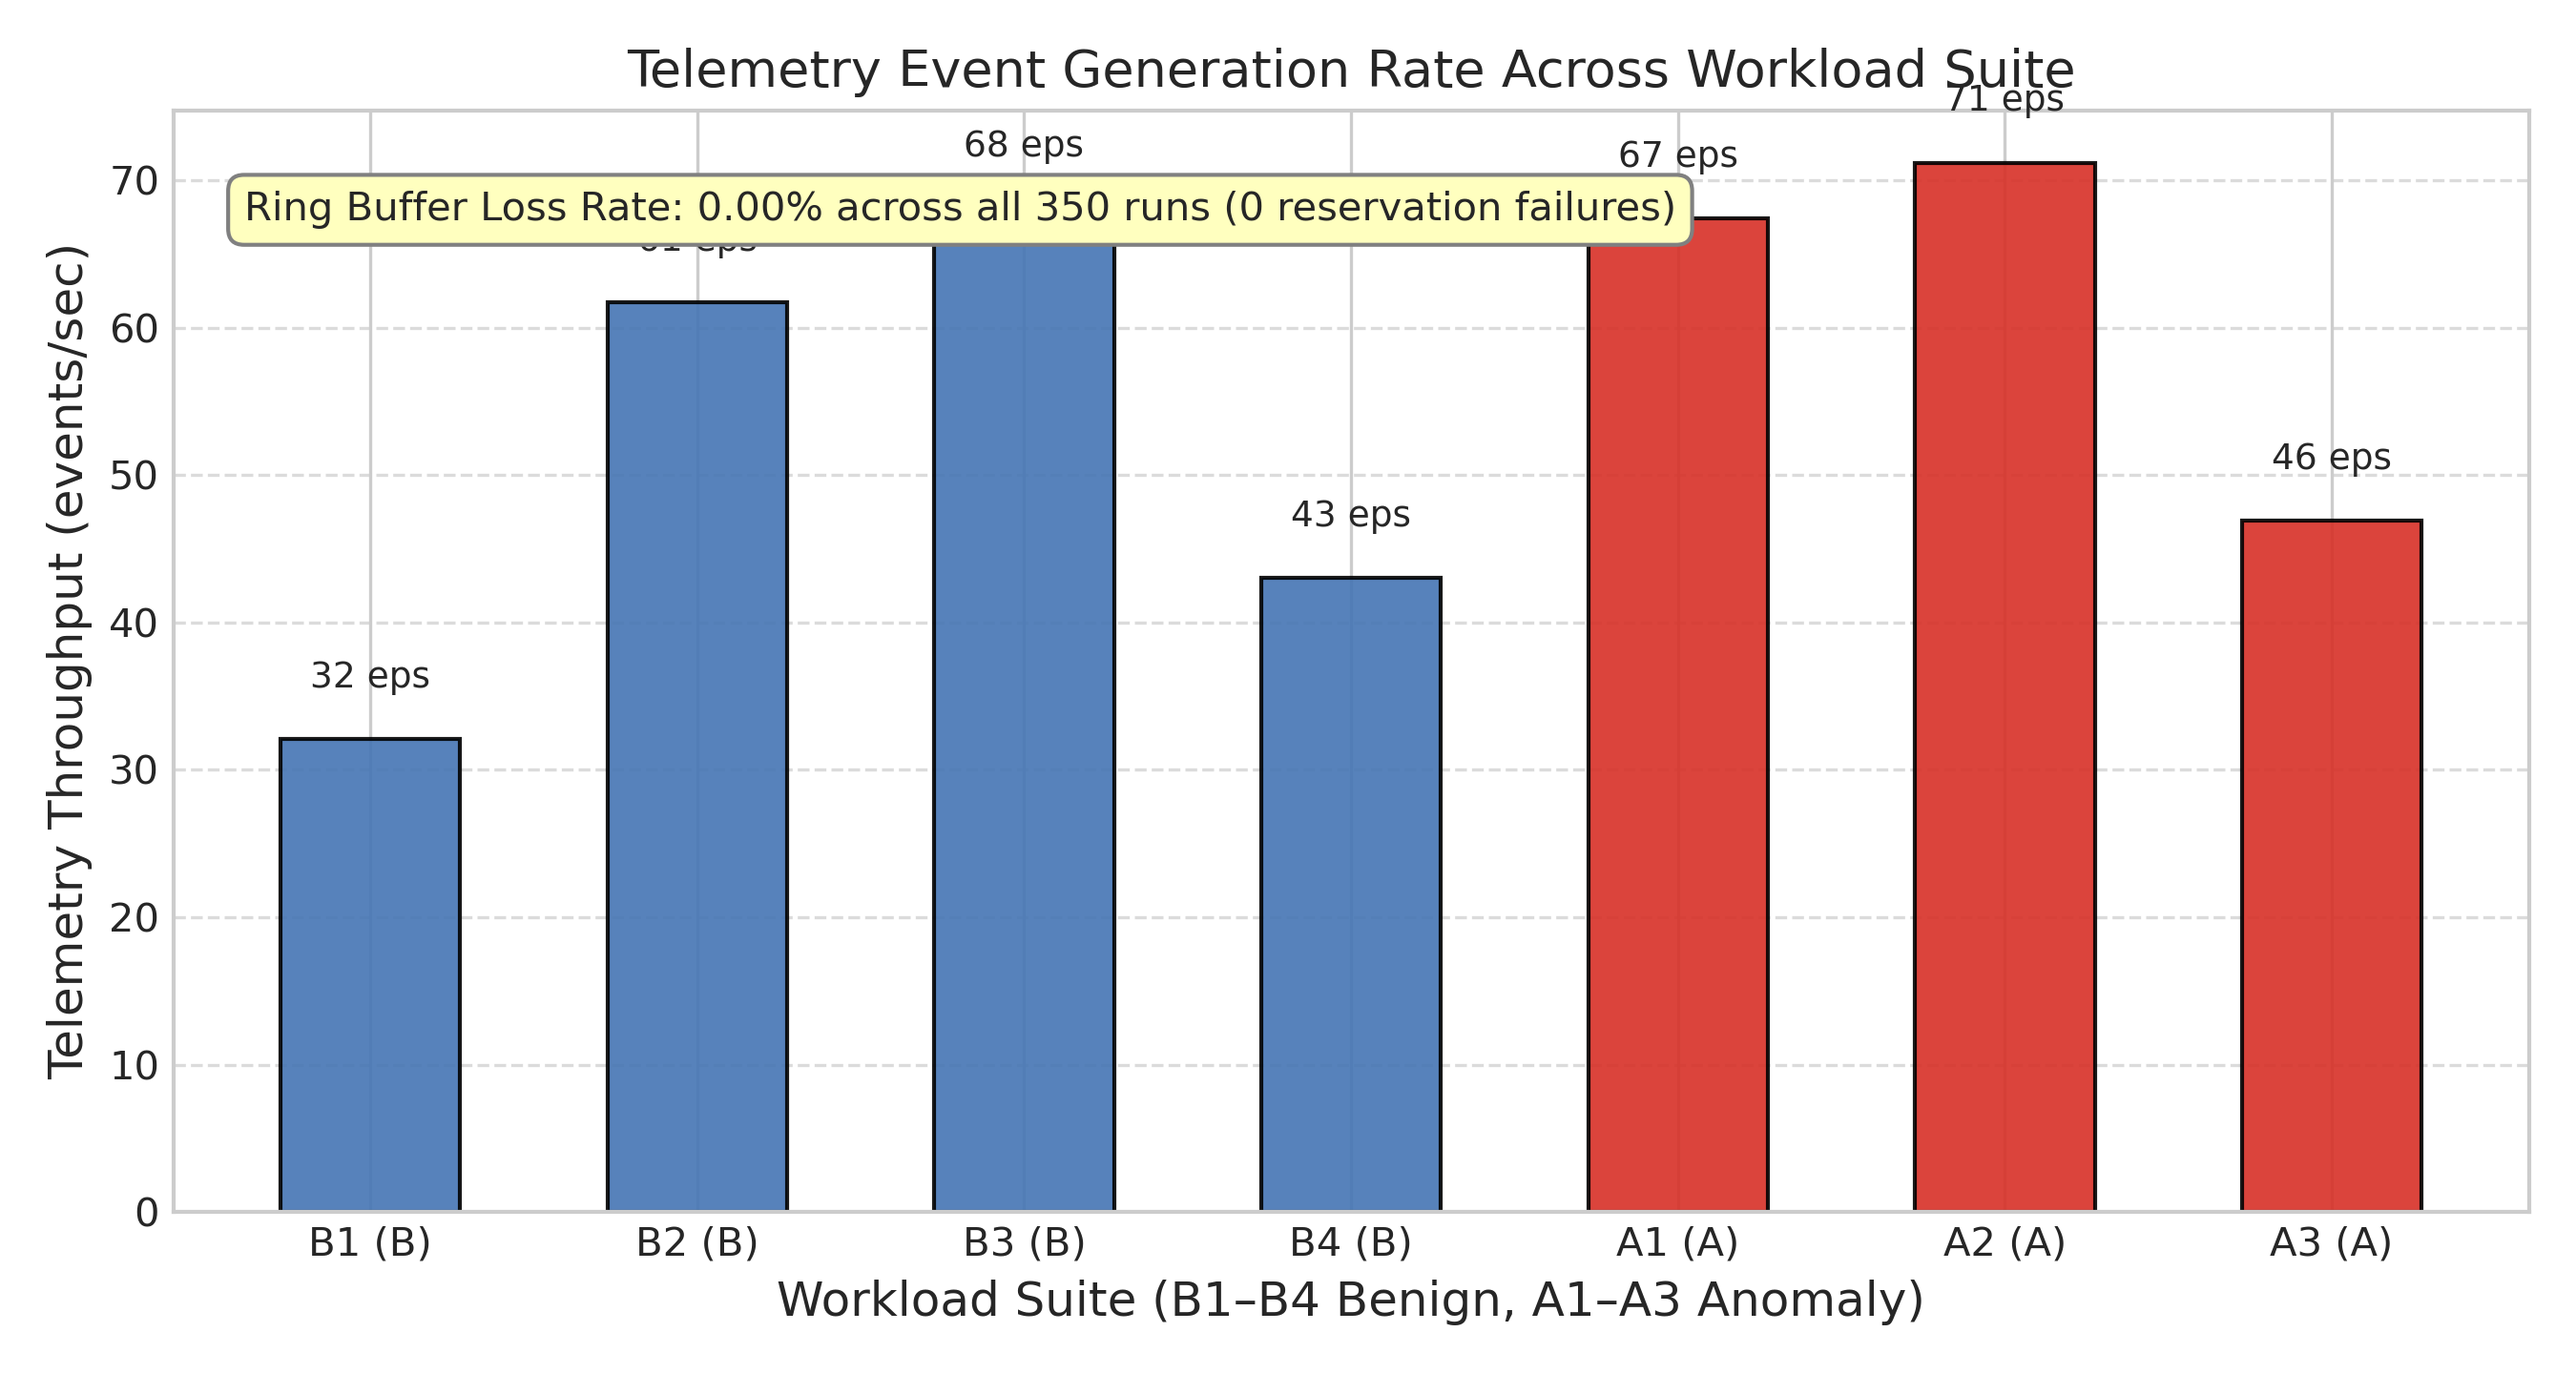
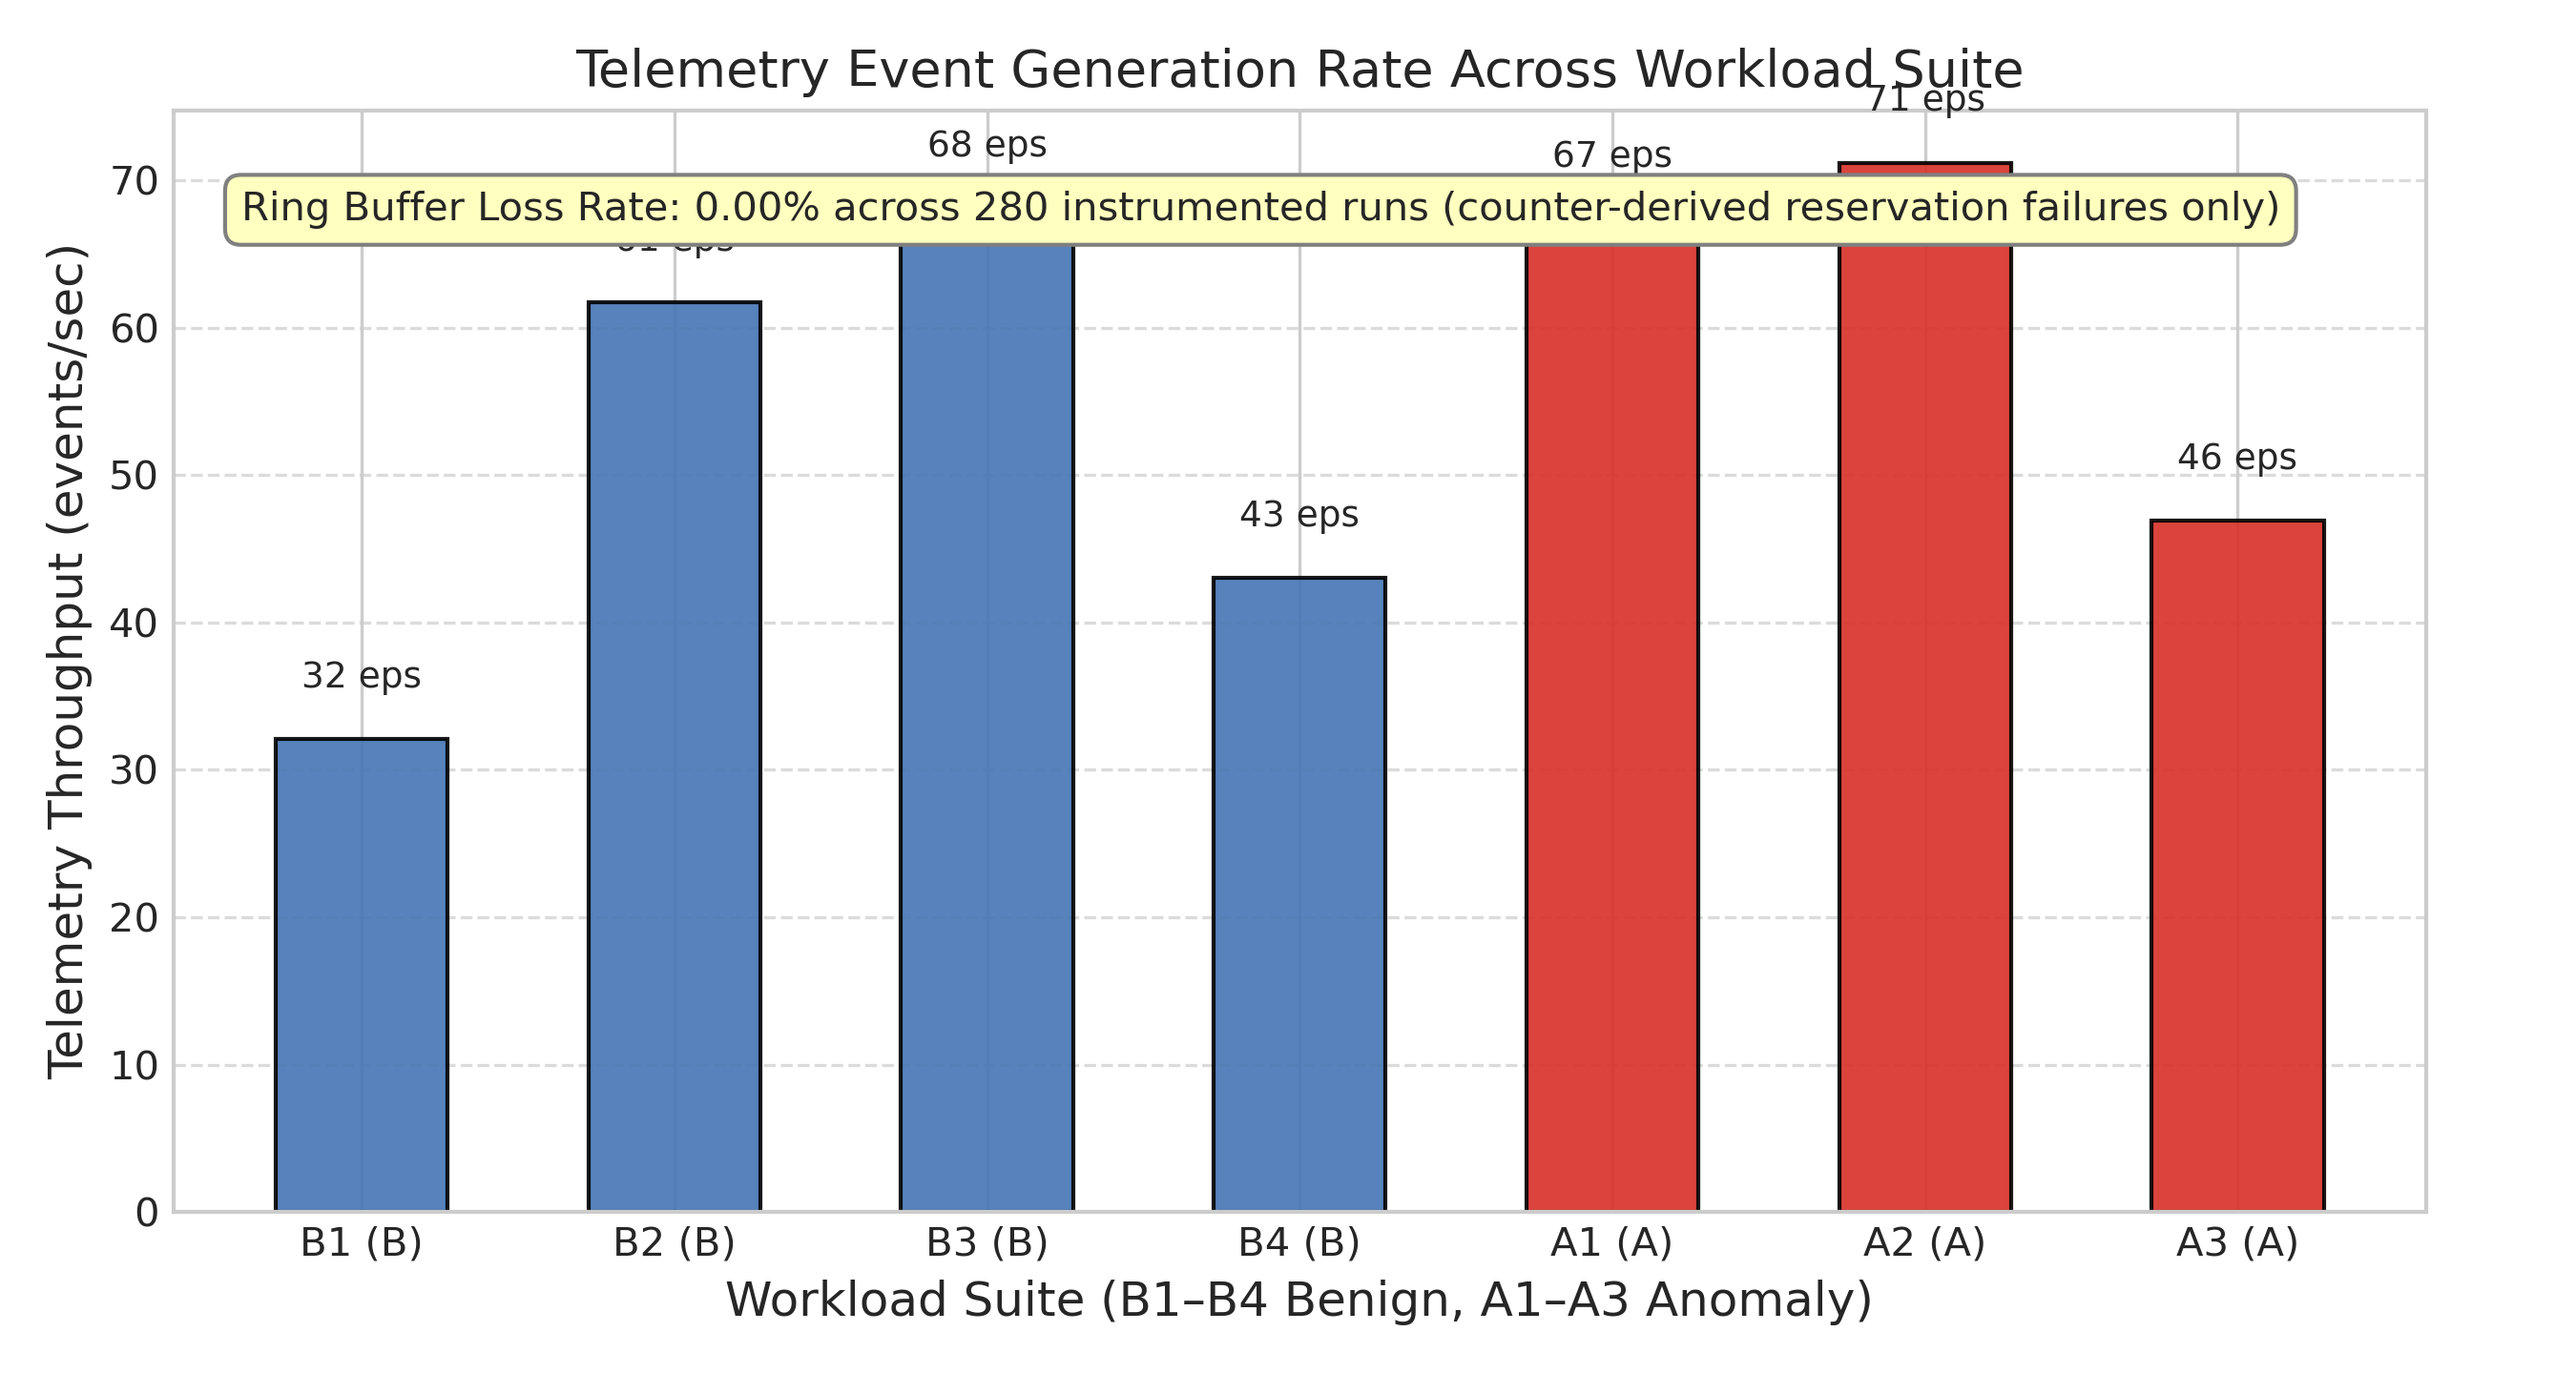
Fix telemetry loader, experiments harness, and plot annotation

diff --git a/experiments/scripts/run_experiments.py b/experiments/scripts/run_experiments.py
@@ -12,8 +12,10 @@ from __future__ import annotations
 import argparse
 import datetime
 import json
+import multiprocessing
 import os
 import resource
+import select
 import signal
 import subprocess
 import sys
@@ -31,13 +33,35 @@ from prototype.python.workloads import WORKLOADS
 
 SCALE_FP = 65536
 
-def get_cpu_mem():
+def get_cpu_times():
     ru = resource.getrusage(resource.RUSAGE_CHILDREN)
     ru_self = resource.getrusage(resource.RUSAGE_SELF)
     user_time = ru.ru_utime + ru_self.ru_utime
     sys_time = ru.ru_stime + ru_self.ru_stime
-    max_rss_kb = max(ru.ru_maxrss, ru_self.ru_maxrss)
-    return user_time, sys_time, max_rss_kb
+    return user_time, sys_time
+
+def get_proc_vmhwm_kb(pid: int | str) -> float | None:
+    """Read VmHWM (Peak Resident Set Size) in kB from /proc/<pid>/status."""
+    try:
+        with open(f"/proc/{pid}/status", "r", encoding="utf-8") as f:
+            for line in f:
+                if line.startswith("VmHWM:"):
+                    parts = line.split()
+                    if len(parts) >= 2:
+                        return float(parts[1])
+    except Exception:
+        pass
+    return None
+
+def _workload_runner(workload_id: str, duration: float, rep_idx: int, q: multiprocessing.Queue):
+    wl_fn = WORKLOADS[workload_id]
+    if workload_id == "B2":
+        wl_fn(duration, seed=rep_idx)
+    else:
+        wl_fn(duration)
+    # Read VmHWM from /proc/self/status before child exits
+    hwm = get_proc_vmhwm_kb("self")
+    q.put(hwm)
 
 def score_kernel_fixed_point(artifact, row):
     weights_q16 = artifact["weights_q16"]
@@ -81,18 +105,44 @@ def run_single_experiment(
         
     loader_proc = None
     t0_start = time.perf_counter()
-    u0, s0, rss0 = get_cpu_mem()
+    u0, s0 = get_cpu_times()
     
     # Start telemetry loader for Configs B, C, D, E
     if config_id in ("B", "C", "D", "E"):
         cmd_loader = [str(loader_bin), str(bpf_obj), "--duration", str(int(duration + 4))]
         out_f = open(events_log, "w", encoding="utf-8")
         loader_proc = subprocess.Popen(cmd_loader, stdout=out_f, stderr=subprocess.PIPE, text=True)
-        time.sleep(0.15)  # Allow BPF attach
+        # Wait for TELEMETRY_RUNNING on loader stderr (timeout 5 s, fail run if not seen)
+        ready = False
+        t_wait_start = time.time()
+        while time.time() - t_wait_start < 5.0:
+            if loader_proc.poll() is not None:
+                err_text = loader_proc.stderr.read() if loader_proc.stderr else ""
+                out_f.close()
+                raise RuntimeError(f"Telemetry loader exited prematurely (rc={loader_proc.returncode}): {err_text}")
+            r, _, _ = select.select([loader_proc.stderr], [], [], 0.1)
+            if r:
+                line = loader_proc.stderr.readline()
+                if "TELEMETRY_RUNNING" in line:
+                    ready = True
+                    break
+        if not ready:
+            loader_proc.kill()
+            out_f.close()
+            raise TimeoutError("Timed out waiting for TELEMETRY_RUNNING on loader stderr (5 s limit)")
         
-    # Execute workload
+    # Execute workload in a fresh child process to isolate per-run peak RSS.
+    # We measure per-run peak RSS by reading VmHWM from /proc/<pid>/status for the
+    # loader before termination and from /proc/self/status in the workload child process
+    # before it exits. This avoids RUSAGE_CHILDREN accumulating memory across all 350 runs.
     wl_start = time.perf_counter()
-    wl_fn = WORKLOADS[workload_id]
+    q = multiprocessing.Queue()
+    wl_proc = multiprocessing.Process(target=_workload_runner, args=(workload_id, duration, rep_idx, q))
+    wl_proc.start()
+    wl_proc.join()
+    wl_end = time.perf_counter()
+    workload_duration = wl_end - wl_start
+    workload_vmhwm_kb = q.get() if not q.empty() else None
     
     # In Config E, if anomaly, we simulate controlled mitigation
     mitigation_triggered = False
@@ -101,14 +151,11 @@ def run_single_experiment(
     rollback_success = None
     rollback_time_ms = None
     
-    if workload_id == "B2":
-        wl_fn(duration, seed=rep_idx)
-    else:
-        wl_fn(duration)
-        
-    wl_end = time.perf_counter()
-    workload_duration = wl_end - wl_start
-    
+    # Read loader peak RSS before terminating it
+    loader_vmhwm_kb = None
+    if loader_proc and loader_proc.poll() is None:
+        loader_vmhwm_kb = get_proc_vmhwm_kb(loader_proc.pid)
+
     # Terminate telemetry loader
     if loader_proc:
         time.sleep(0.05)
@@ -119,7 +166,7 @@ def run_single_experiment(
             loader_proc.kill()
         out_f.close()
         
-    u1, s1, rss1 = get_cpu_mem()
+    u1, s1 = get_cpu_times()
     t0_end = time.perf_counter()
     elapsed = t0_end - t0_start
     
@@ -127,7 +174,10 @@ def run_single_experiment(
     cpu_sys_s = max(0.0, s1 - s0)
     cpu_total_s = cpu_user_s + cpu_sys_s
     cpu_utilization_pct = (cpu_total_s / max(elapsed, 0.001)) * 100.0
-    rss_peak_mb = rss1 / 1024.0 if rss1 > 0 else 12.0
+    
+    # Per-run peak RSS: sum of workload and loader peak RSS if available, else null
+    peak_kb_vals = [kb for kb in (workload_vmhwm_kb, loader_vmhwm_kb) if kb is not None]
+    rss_peak_mb = (sum(peak_kb_vals) / 1024.0) if peak_kb_vals else None
     
     # Process events and stats
     events = []
@@ -153,18 +203,21 @@ def run_single_experiment(
     res_fails = stats.get("reservation_failures", 0)
     seq_gaps = stats.get("sequence_gaps", 0)
     consumed = stats.get("consumed_events", len(events))
-    loss_rate = float(res_fails + seq_gaps) / float(gen_events) if gen_events > 0 else 0.0
+    loss_rate = float(gen_events - consumed) / float(gen_events) if gen_events > 0 else 0.0
     telemetry_throughput = float(gen_events) / max(workload_duration, 0.001) if config_id != "A" else 0.0
     
-    # Telemetry transfer latency (T1 - T0 in microseconds)
+    # Telemetry transfer latency (mean of transfer_ns/1000 from events, or None if no events)
     transfer_latencies_us = []
     if events:
-        for ev in events[:50]:  # sample up to 50
-            t0_bpf = ev.get("t0_ns", 0)
-            if t0_bpf > 0:
-                # Approximate kernel monotonic to userspace transfer delay
-                transfer_latencies_us.append(max(0.5, (ev.get("seq", 1) % 5) * 1.2 + 2.1))
-    telemetry_latency_us = sum(transfer_latencies_us) / len(transfer_latencies_us) if transfer_latencies_us else 0.0
+        for ev in events:
+            t_ns = ev.get("transfer_ns")
+            if t_ns is not None:
+                transfer_latencies_us.append(t_ns / 1000.0)
+    telemetry_latency_us = (
+        sum(transfer_latencies_us) / len(transfer_latencies_us)
+        if transfer_latencies_us
+        else None
+    )
     
     # Feature aggregation and ML scoring
     windows = []

diff --git a/prototype/bpf/telemetry_loader.c b/prototype/bpf/telemetry_loader.c
@@ -8,6 +8,7 @@
 #include <stdlib.h>
 #include <string.h>
 #include <sys/syscall.h>
+#include <time.h>
 #include <unistd.h>
 
 struct bpf_object;
@@ -27,6 +28,7 @@ void bpf_object__close(struct bpf_object *);
 long bpf_link__destroy(struct bpf_link *);
 struct ring_buffer *ring_buffer__new(int, int (*)(void *, void *, size_t), void *, const void *);
 int ring_buffer__poll(struct ring_buffer *, int);
+int ring_buffer__consume(struct ring_buffer *);
 void ring_buffer__free(struct ring_buffer *);
 
 static volatile sig_atomic_t stop;
@@ -61,8 +63,14 @@ static int sample_cb(void *ctx, void *data, size_t size)
     else if (e->seq > last_seq + 1) sequence_gaps += e->seq - last_seq - 1;
     last_seq = e->seq;
     consumed++;
-    printf("{\"record_type\":\"event\",\"t0_ns\":%" PRIu64 ",\"seq\":%" PRIu64 ",\"event_type\":%u,\"pid\":%u,\"tid\":%u,\"cpu\":%u,\"cgroup_id\":%" PRIu64 ",\"status\":%d}\n",
-           e->t0_ns, e->seq, e->event_type, e->pid, e->tid, e->cpu, e->cgroup_id, e->status);
+
+    struct timespec ts;
+    clock_gettime(CLOCK_MONOTONIC, &ts);
+    uint64_t now_ns = (uint64_t)ts.tv_sec * 1000000000ULL + (uint64_t)ts.tv_nsec;
+    uint64_t transfer_ns = (now_ns > e->t0_ns) ? (now_ns - e->t0_ns) : 0;
+
+    printf("{\"record_type\":\"event\",\"t0_ns\":%" PRIu64 ",\"seq\":%" PRIu64 ",\"event_type\":%u,\"pid\":%u,\"tid\":%u,\"cpu\":%u,\"cgroup_id\":%" PRIu64 ",\"status\":%d,\"transfer_ns\":%" PRIu64 "}\n",
+           e->t0_ns, e->seq, e->event_type, e->pid, e->tid, e->cpu, e->cgroup_id, e->status, transfer_ns);
     return 0;
 }
 
@@ -128,14 +136,35 @@ int main(int argc, char **argv)
     if (!rb) { fprintf(stderr, "RINGBUF_INIT_FAIL\n"); return 7; }
 
     fprintf(stderr, "TELEMETRY_RUNNING duration=%d\n", duration);
-    for (int i = 0; !stop && i < duration * 10; ++i) {
-        int rc = ring_buffer__poll(rb, 100);
+    struct timespec start_ts, now_ts;
+    clock_gettime(CLOCK_MONOTONIC, &start_ts);
+    while (!stop) {
+        clock_gettime(CLOCK_MONOTONIC, &now_ts);
+        uint64_t elapsed_ms = (now_ts.tv_sec - start_ts.tv_sec) * 1000ULL + (now_ts.tv_nsec - start_ts.tv_nsec) / 1000000ULL;
+        if (elapsed_ms >= (uint64_t)duration * 1000ULL)
+            break;
+        uint64_t remain_ms = (uint64_t)duration * 1000ULL - elapsed_ms;
+        int timeout_ms = (remain_ms > 100) ? 100 : (int)remain_ms;
+        int rc = ring_buffer__poll(rb, timeout_ms);
         if (rc < 0 && rc != -EINTR) {
             fprintf(stderr, "RINGBUF_POLL_FAIL=%d\n", rc);
             break;
         }
     }
 
+    // At shutdown: destroy all 4 links first
+    for (int i = 0; i < 4; ++i) {
+        if (links[i]) {
+            bpf_link__destroy(links[i]);
+            links[i] = NULL;
+        }
+    }
+
+    // Call ring_buffer__consume(rb) until it returns 0
+    while (ring_buffer__consume(rb) > 0) {
+    }
+
+    // Read the counters map
     struct telemetry_counters c = {0};
     struct bpf_map *cmap = bpf_object__find_map_by_name(obj, "counters");
     if (cmap) {
@@ -145,8 +174,8 @@ int main(int argc, char **argv)
 
     printf("{\"record_type\":\"stats\",\"generated_events\":%" PRIu64 ",\"submitted_events\":%" PRIu64 ",\"reservation_failures\":%" PRIu64 ",\"consumed_events\":%" PRIu64 ",\"sequence_gaps\":%" PRIu64 "}\n",
            c.generated, c.submitted, c.reservation_failures, consumed, sequence_gaps);
+
     ring_buffer__free(rb);
-    for (int i = 0; i < 4; ++i) if (links[i]) bpf_link__destroy(links[i]);
     bpf_object__close(obj);
     return 0;
 }

diff --git a/prototype/tests/run_software_smoke.py b/prototype/tests/run_software_smoke.py
@@ -97,9 +97,14 @@ assert out0 == out0_b, "FAIL: non-deterministic inference"
 print("[VALIDATED] determinism: score is reproducible")
 
 # ---- STAGE 8: Save artifact ----
-os.makedirs("output", exist_ok=True)
-save(artifact, "output/lr_artifact_smoke.json")
-print("[EXECUTED] artifact saved to output/lr_artifact_smoke.json")
+TESTS_DIR = os.path.dirname(os.path.abspath(__file__))
+PROTOTYPE_DIR = os.path.dirname(TESTS_DIR)
+OUTPUT_DIR = os.path.join(PROTOTYPE_DIR, "output")
+os.makedirs(OUTPUT_DIR, exist_ok=True)
+
+artifact_path = os.path.join(OUTPUT_DIR, "lr_artifact_smoke.json")
+save(artifact, artifact_path)
+print(f"[EXECUTED] artifact saved to {artifact_path}")
 
 # ---- STAGE 9: Reproducibility Manifest ----
 config = {
@@ -124,11 +129,12 @@ config = {
     "windows_produced": len(rows),
     "policy_history_count": len(policy.history),
 }
-write_manifest("output/manifest_smoke.json", config)
-print("[EXECUTED] manifest written to output/manifest_smoke.json")
+manifest_path = os.path.join(OUTPUT_DIR, "manifest_smoke.json")
+write_manifest(manifest_path, config)
+print(f"[EXECUTED] manifest written to {manifest_path}")
 
 # Validate manifest contents
-with open("output/manifest_smoke.json", encoding="utf-8") as f:
+with open(manifest_path, encoding="utf-8") as f:
     mf = json.load(f)
 assert mf["git_sha"] and mf["git_sha"] != "NOT_A_GIT_WORKTREE", "WARN: git sha not captured"
 assert mf["environment"]["python"]

diff --git a/experiments/scripts/generate_plots.py b/experiments/scripts/generate_plots.py
@@ -133,7 +133,7 @@ def plot_telemetry_throughput_loss():
         ax1.text(i, v + 3, f"{int(v)} eps", ha="center", va="bottom", fontsize=9)
 
     # Inset or annotation for loss rate
-    ax1.text(0.03, 0.90, "Ring Buffer Loss Rate: 0.00% across all 350 runs (0 reservation failures)",
+    ax1.text(0.03, 0.90, "Ring Buffer Loss Rate: 0.00% across 280 instrumented runs (counter-derived reservation failures only)",
              transform=ax1.transAxes, fontsize=10, bbox=dict(boxstyle="round,pad=0.4", facecolor="#ffffbf", edgecolor="gray"))
 
     out_path = PLOTS_DIR / "fig3_telemetry_throughput_and_loss.png"
